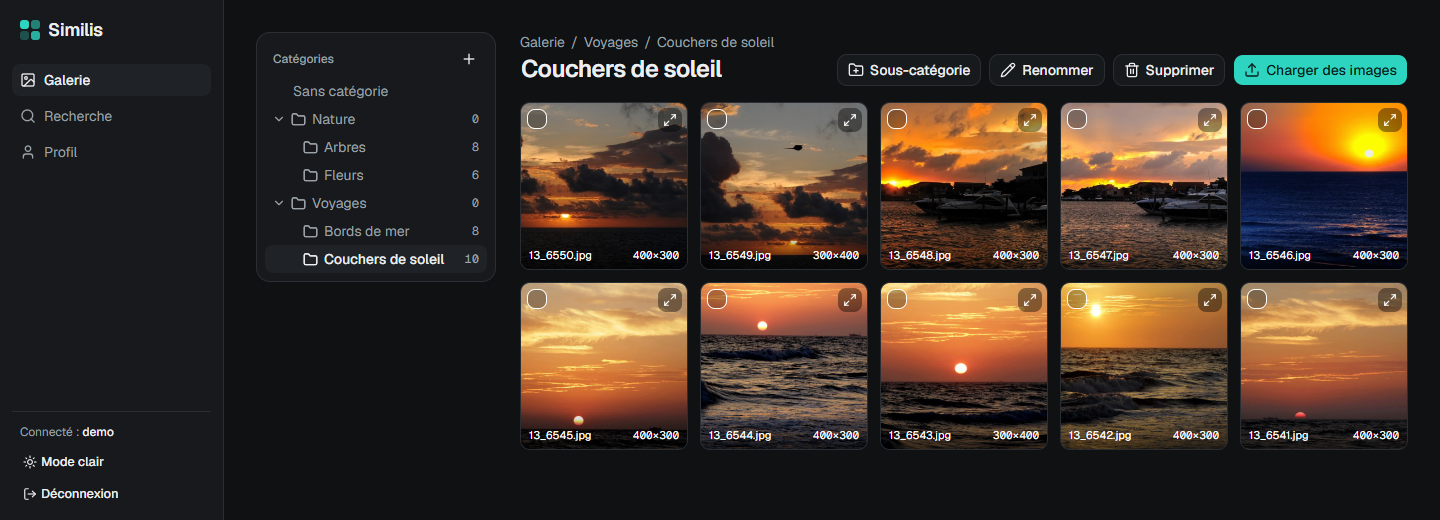
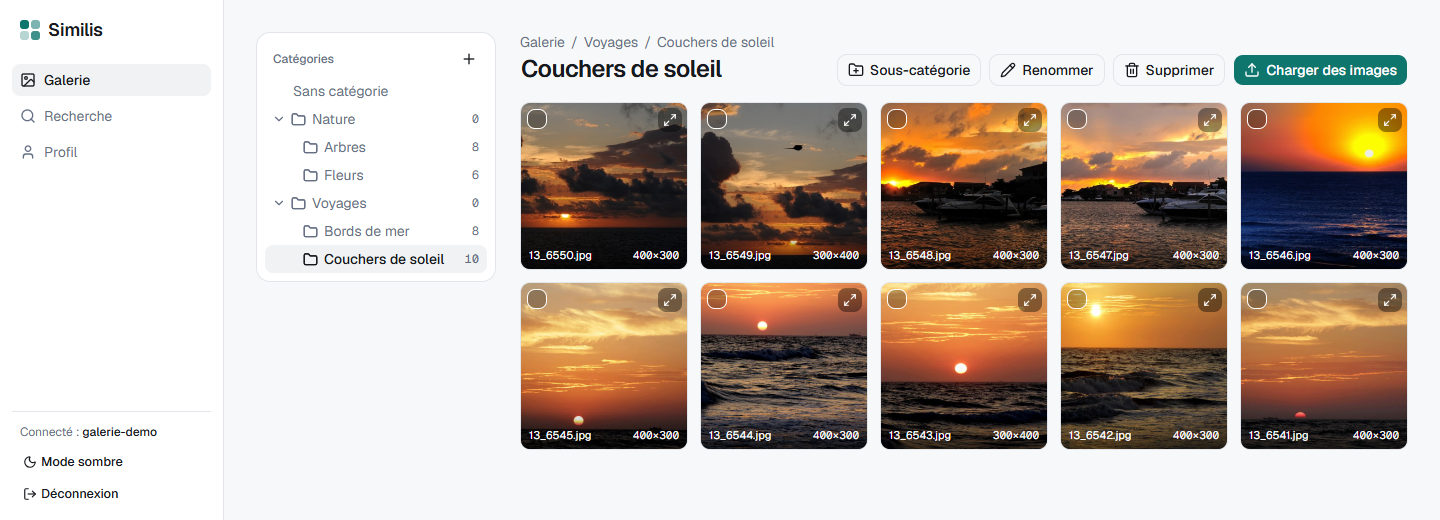
docs: switch README screenshots to light mode

diff --git a/README.md b/README.md
@@ -40,7 +40,7 @@ This is mini-project 1 of the Multimedia Mining course (group 1). The user inter
 
 ![Image page with its descriptors](screenshots/image.png)
 
-**Search after one FRE iteration**: 6 sunsets were marked relevant. The histograms now carry 94 % of the total weight, and the relevant images move to the top.
+**Search after one FRE iteration**: 6 sunsets were marked relevant. The histograms now carry 90 % of the total weight, and the relevant images move to the top.
 
 ![Search results after relevance feedback](screenshots/recherche.png)
 
